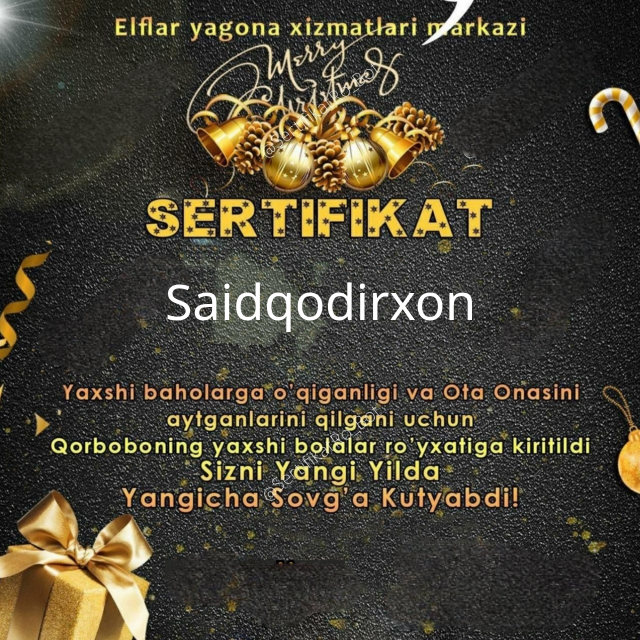
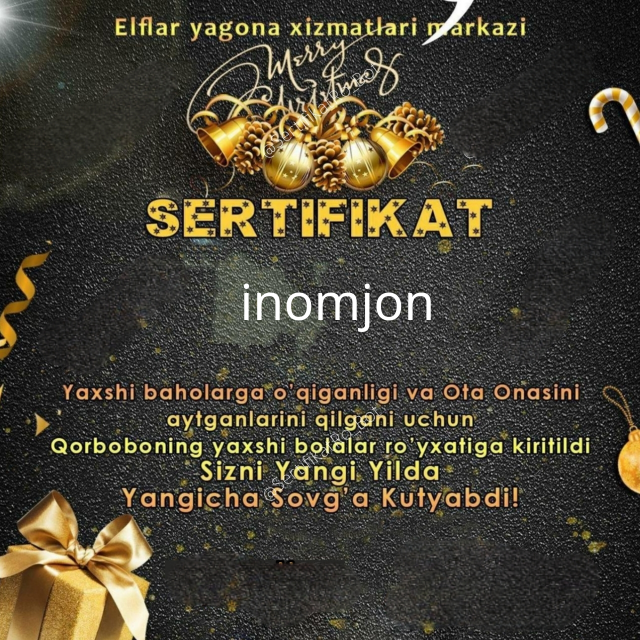
image X, Y update

Changed region(s): [[0.25, 0.4375, 0.75, 0.5312]]

diff --git a/src/controllers/ozgaramiz.js b/src/controllers/ozgaramiz.js
@@ -36,7 +36,7 @@ const ozgaramiz = async (req, res) => {
     const olchamY = 700;
 
     if (text.length >= 12) {
-      ctx.fillText(text, olchamX - 300, olchamY);
+      ctx.fillText(text, olchamX - 350, olchamY);
       console.log("0iffda");
     }
     if (text.length === 10 || text.length === 11) {

diff --git a/src/controllers/2.js b/src/controllers/2.js
@@ -48,7 +48,7 @@ const api2 = async (req, res) => {
       console.log("iffffffda");
     }
     if (text.length === 6 || text.length === 7 || text.length === 8) {
-      ctx.fillText(text, olchamX, olchamY);
+      ctx.fillText(text, olchamX - 20, olchamY);
       console.log("2 iffda");
     }
 

diff --git a/src/controllers/3.js b/src/controllers/3.js
@@ -49,7 +49,7 @@ const api3 = async (req, res) => {
       console.log("iffffffda");
     }
     if (text.length === 6 || text.length === 7 || text.length === 8) {
-      ctx.fillText(text, olchamX, olchamY);
+      ctx.fillText(text, olchamX - 20, olchamY);
       console.log("2 iffda");
     }
 

diff --git a/src/controllers/4.js b/src/controllers/4.js
@@ -49,7 +49,7 @@ const api4 = async (req, res) => {
       console.log("iffffffda");
     }
     if (text.length === 6 || text.length === 7 || text.length === 8) {
-      ctx.fillText(text, olchamX, olchamY);
+      ctx.fillText(text, olchamX - 20, olchamY);
       console.log("2 iffda");
     }
 

diff --git a/src/controllers/5.js b/src/controllers/5.js
@@ -49,7 +49,7 @@ const api5 = async (req, res) => {
       console.log("iffffffda");
     }
     if (text.length === 6 || text.length === 7 || text.length === 8) {
-      ctx.fillText(text, olchamX, olchamY);
+      ctx.fillText(text, olchamX - 20, olchamY);
       console.log("2 iffda");
     }
 

diff --git a/src/controllers/6.js b/src/controllers/6.js
@@ -49,7 +49,7 @@ const api6 = async (req, res) => {
       console.log("iffffffda");
     }
     if (text.length === 6 || text.length === 7 || text.length === 8) {
-      ctx.fillText(text, olchamX, olchamY);
+      ctx.fillText(text, olchamX - 30, olchamY);
       console.log("2 iffda");
     }
 

diff --git a/src/controllers/7.js b/src/controllers/7.js
@@ -49,7 +49,7 @@ const api7 = async (req, res) => {
       console.log("iffffffda");
     }
     if (text.length === 6 || text.length === 7 || text.length === 8) {
-      ctx.fillText(text, olchamX, olchamY);
+      ctx.fillText(text, olchamX - 30, olchamY);
       console.log("2 iffda");
     }
 

diff --git a/src/controllers/1.js b/src/controllers/1.js
@@ -47,7 +47,7 @@ const api1 = async (req, res) => {
       console.log("iffffffda");
     }
     if (text.length === 6 || text.length === 7 || text.length === 8) {
-      ctx.fillText(text, olchamX, 400);
+      ctx.fillText(text, olchamX - 40, 400);
       console.log("2 iffda");
     }
 
